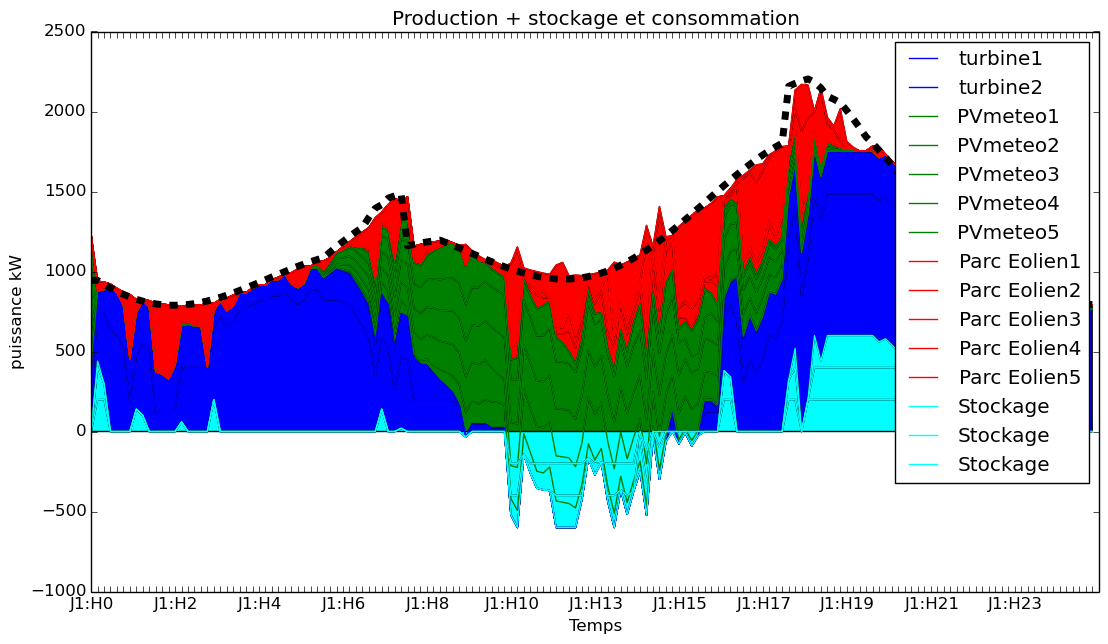
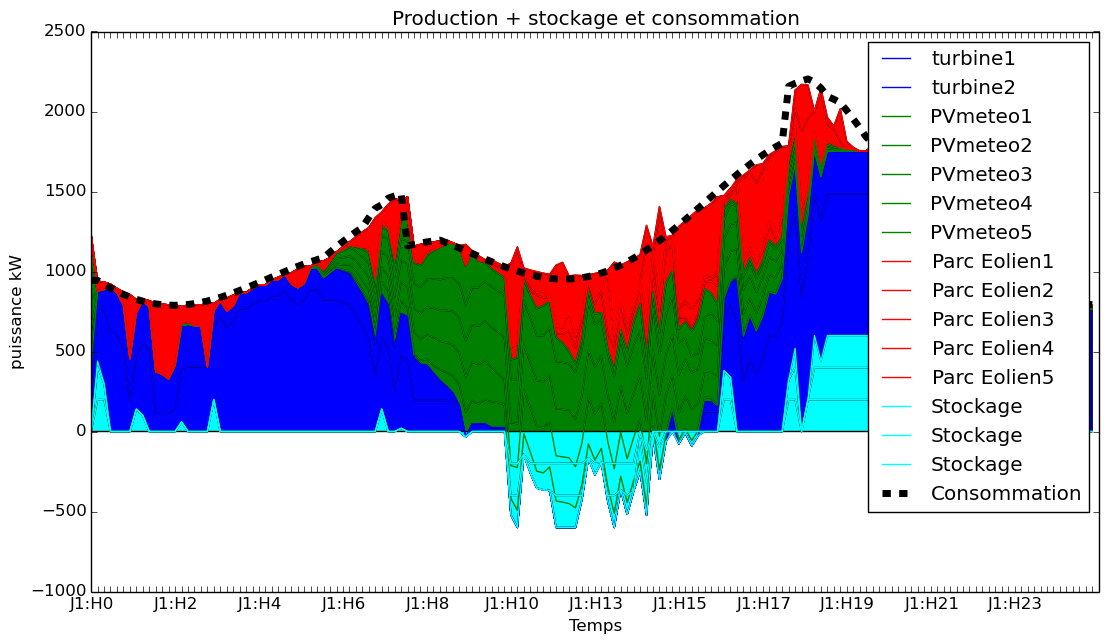
ajout images

Changed region(s): [[0.7671, 0.0621, 1.0, 0.8075]]

diff --git a/Ville.py b/Ville.py
@@ -18,8 +18,8 @@ from Utilitaire.Global import meteoTest
 class Ville:
 
 	def __init__(self):
-		self.equipProduction = [#ParcTurbineAGaz("turbine1",varcout=1.,nombre=1),\
- 		                        #ParcTurbineAGaz("turbine2",varcout=1.10,nombre=0.3),\
+		self.equipProduction = [ParcTurbineAGaz("turbine1",varcout=1.,nombre=1),\
+ 		                        ParcTurbineAGaz("turbine2",varcout=1.10,nombre=0.3),\
  		                        #ParcTurbineAGaz("turbine3",varcout=1.13,nombre=1),\
    		                     	ParcSolaire(nom="PVmeteo1",prod=4.,activite=50.,nb=100.,meteo=meteo1),\
   		                        ParcSolaire(nom="PVmeteo2",prod=4.,activite=50.,nb=100.,meteo=meteo2),\
@@ -33,11 +33,12 @@ class Ville:
   		                        ParcEolien(nom="eolienne,meteo5",n=10., eolienne="eolienne275", meteoVent=meteo5),\
 		                        ]
 		self.equipConso = [#ParcUsine38(nom="usine2-38",prod=-60.,effa=10.,activite=0.,nombre=1),\
-						   ParcMaison("Maison1", prod=-2., effa=0.1, activite=0., nombre=600),\
+						   Hopital(nom = "hopital", prod = -240., effa = 0.000001, activite = 50.),\
+						   ParcMaison("Maison1", prod=-2., effa=1, activite=0., nombre=600),\
 		                   ParcUsine("Usine1",prod=-50.,effa=10.,activite=0.,nombre=5,),\
 		                   ParcEclairagePublic(prod=-0.140,effa=0.112,activite=0,nombre=2400),\
                            ParcMagasins(prod=-10.,effa=2.,activite=0.,nombre=20),
-                           Hopital(nom = "hopital", prod = -240., effa = 10., activite = 50.)]
+                           ]
 		self.equipStockage = [Stockage(),Stockage(),Stockage()]#,ParcBatterieLithiumIon()]
 		self.nombreEquipementProduction = len(self.equipProduction)
 		self.nombreEquipementConso = len(self.equipConso)

diff --git a/Equipement/ParcUsine.py b/Equipement/ParcUsine.py
@@ -8,10 +8,10 @@ class ParcUsine(Equipement):
     def __init__(self,nom="usine",prod=-1500.,effa=1000.,activite=0.,nombre=5,production=[]): #consommation maximale de 3000 kW
         self.nombre=nombre
         self.PROD_MAX=prod*self.nombre #en kW global ; production nÃ©gative
-        self.EFFA_MAX=effa*self.nombre
+        self.EFFA_MAX=effa*self.nombre*(10**-8)
         self.activite=activite
-        self.effacement=0.#why ??
-        self.cout=self.EFFA_MAX*(80./1000./6.)*self.nombre
+        self.effacement=0.
+        self.cout=self.EFFA_MAX*(80./1000./6.)*self.nombre*10
         self.nom=nom
         #construction de self.production sur une semaine (=>taille = 1008)
         jour = [0. for i in range(144)] #consommation maximale entre 7h40 et 19h00, rampes sur 7h-7h40 et 19h-19h40

diff --git a/Equipement/ParcMagasins.py b/Equipement/ParcMagasins.py
@@ -7,10 +7,10 @@ class ParcMagasins (Utilitaire) : # des commerces de centre ville aux petits sup
     def __init__(self,nom="magasins",prod=-10.,effa=2.,activite=0.,nombre=20):
         self.nombre=nombre
         self.PROD_MAX=prod*self.nombre
-        self.EFFA_MAX=effa*self.nombre
+        self.EFFA_MAX=effa*self.nombre/10**-8
         self.activite=activite
         self.effacement=0. # en %
-        self.cout=self.effacement/100.*self.EFFA_MAX*(80./1000./6.)*self.nombre
+        self.cout=self.effacement/100.*self.EFFA_MAX*(80./1000./6.)*self.nombre*100
         self.nom=nom
         jour=[10. for i in range(0,144)] #magasins fermés entre 19h et 9h, mais consommation des vitrines/frigo/etc...
         for i in range(46,54):

diff --git a/Equipement/Hopital.py b/Equipement/Hopital.py
@@ -14,7 +14,7 @@ class Hopital(Equipement):
         self.effacement = 0.
         self.temps_effa = 0 # temps pendant lequel l'hôpital s'est effacé
         self.temps_dernier_effa = -1 # temps écoulé depuis le dernier effacement, -1 car self.etatSuivant()
-        self.cout = self.effacement/100.*self.EFFA_MAX*(80./1000./6.)
+        self.cout = self.effacement/100.*self.EFFA_MAX*(80./1000./6.)*100
         self.etatSuivant() #initialisation de la variable activite selon le moment de la journée ; effacement nul par défaut
     
     def prevision(self,consigne=0.,effacement=0.):

diff --git a/analyseur.py b/analyseur.py
@@ -244,6 +244,8 @@ for i in range(nbStock):   # Stockage
 
 y2=[sum([-etat[j][l]*ID[l]["Pmax"]/100. for l in range(nbProd, nbProd + nbConso)]) for j in range(len(etat))]  # Consommation
 a.plot(list(range(len(etat))), y2, linewidth=5, label="Consommation",color='k', linestyle='dashed')
+handles, labels = a.get_legend_handles_labels()
+a.legend(handles, labels)  
 plt.ylabel("puissance kW")
 plt.xlabel('Temps')
 plt.title("Production + stockage et consommation")

diff --git a/Equipement/ParcMaison.py b/Equipement/ParcMaison.py
@@ -19,7 +19,7 @@ class ParcMaison (Utilitaire) :
         self.EFFA_MAX=effa*self.nombre # en kWglobal
         self.activite=activite
         self.effacement=0. # en %
-        self.cout=self.EFFA_MAX*(80./1000./6.)*self.nombre #a retravailler
+        self.cout=self.EFFA_MAX*(80./1000./6.)/600#*self.nombre #a retravailler
         self.nom=nom
         self.production=[]
         for i in range(0,721):
